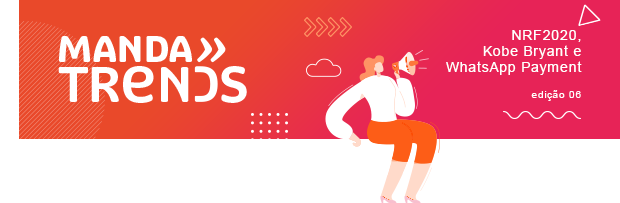
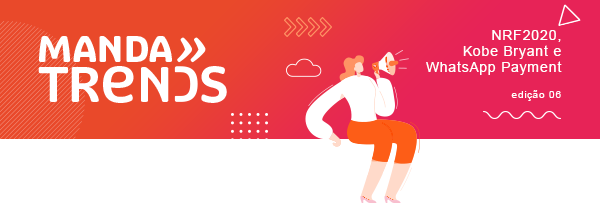
Funcionando
Funcionamento da full page está ok

diff --git a/index.html b/index.html
@@ -11,30 +11,32 @@
 
 <body>
     <header>
-        <div class="center">
             <img src="images/Header.png" alt="">
         </div>
     </header>
-    <img src="./images/NRF.png">
+
     <div class="noticias-1">
-        <div class="center">
-            <div class="noticias-wraper-1">
+        <div class="center">            
+            <div class="noticias-wraper-1">                
                 <div class="noticia-destaque">
-                    <div style="background-image: url('images/NRF.png')" class="noticia-destaque-single">
+                    <div class="noticia-destaque-single">
+                        <img src="images/NRF.png">
                         <h1>NRF 2020: conheça os top 5 assunto do evento.</h1>
                         <p>O maior evento sobre varejo do mundo mostrando as tendências, oportunidades e inovações para o setor</p>
                         <p>Fonte: CMO ADOBE</p>
-                        <hr>
-                    </div>
+                        <hr class="line1">
+                    </div>                    
                 </div>
             </div>
             <div class="outras-noticias-1">
-                <div style="background-image: url('images/kobe.png')" class="outra-noticia-1-single">
+                <div class="outra-noticia-1-single">
+                    <img src="images/kobe.png"> 
                     <h3>Petição para colocar Kobe Bryant no logo da NBA.</h3>
                     <p>Fonte: CMO ADOBE</p>
-                    <hr>
+                    <hr class="line2">
                 </div>
-                <div style="background-image: url('images/zap.png')" class="outra-noticia-1-single">
+                <div class="outra-noticia-1-single">
+                    <img src="images/zap.png">
                     <h3>WhatsApp terá função de pagamentos em 2020.</h3>
                     <p>Fonte: CMO ADOBE</p>
                     <hr>

diff --git a/style.css b/style.css
@@ -2,15 +2,16 @@
   margin: 0;
   padding: 0;
   box-sizing: border-box;
+  width: 100%;
 }
 
-/* .center {
+.center {
   display: flex;
   max-width: 100%;
   margin: 0 auto;
   padding: 0 2%;
   flex-wrap: wrap;
-} */
+}
 
 .center img {
   width: 100%;
@@ -19,48 +20,47 @@
 
 .noticias-wraper-1 {
   display: flex;
-  width: 90%;
+  width: 100%;
 }
 
 .noticia-destaque {
-  width: 60%;
-  padding-top: 20%;
   border: none;
   position: relative;
+}
+
+.noticia-destaque img {
+  width: 100%;
+  padding: 0 5;
 }
 
 .noticia-destaque-single {
   left: 0;
   top: 0;
-  position: absolute;
+  position: relative;
   width: 100%;
   height: 100%;
   background-size: cover;
   background-position: center;
 }
 
-.noticia-destaque-single h1 {
-  padding-top: 200px;
-}
-
 .outras-noticias-1 {
   display: flex;
-  width: 50%;
   flex-wrap: wrap;
 }
 
 .outra-noticia-1-single {
   width: 50%;
   height: 48%;
-  padding-top: 28%;
-  margin-top: 30%;
   background-position: center;
   border: 2px solid white;
   position: relative;
 }
 
+.outra-noticia-1-single img {
+  max-height: 547px;
+}
+
 .outra-noticia-1-single h3 {
-  padding-top: 50px;
   margin-top: 10px;
   color: black;
 }
